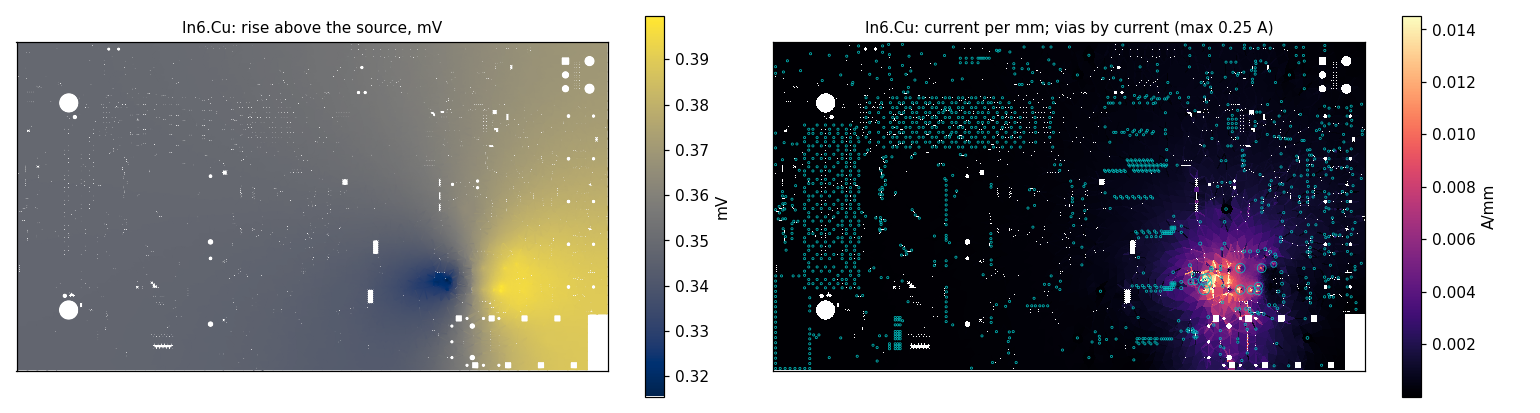
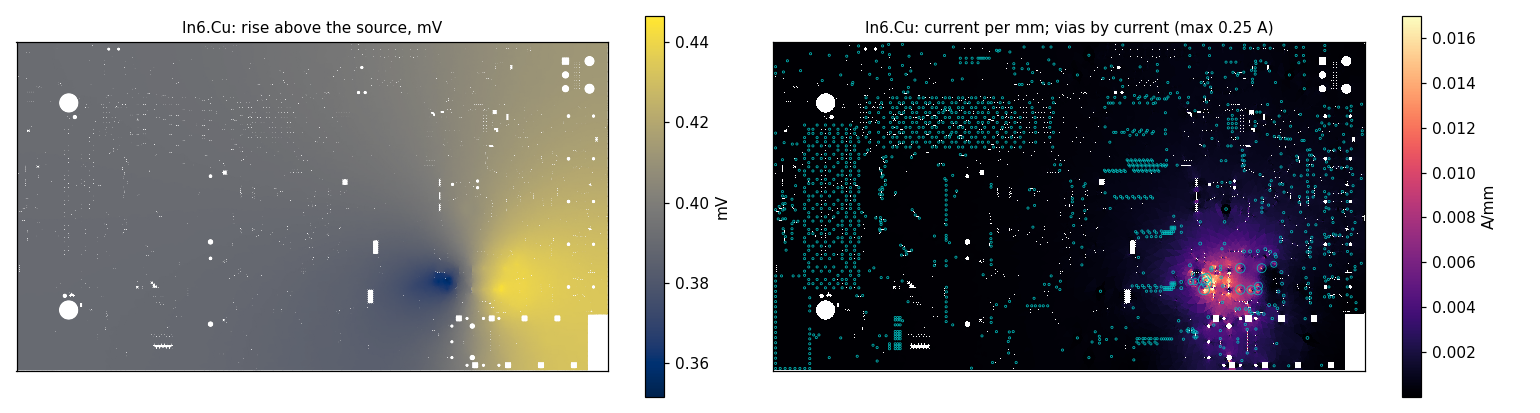
DC: equipotential pads and graded meshes at vias (found by validation against Elmer)
Terminal and via-end ties are 1e6 S per vertex instead of 1e6 S shared: current
enters a pad at its edge vertices, and the shared tie left pads ~20 uV/A off
equipotential (+1% on a strip, growing with refinement; now 0.003%).

DC meshes use a 25 degree minimum angle (mesh_polygons quality=, off by
default for the RF/MQS meshes): without it each via's octagon fanned out to
vertices ~2 mm away and the linear elements lost ~0.1 mOhm of spreading per
via junction, whatever dmax. Jetson +1V15 drop 5.78 -> 6.18 mV, its PDN peak
+5.7% (mount inductance uses the same conduction); wpthb -0.05%.

DC loss is the terminals' input power (V.G.V cancelled across stiff ties).
Tests: full-width pads give L/(sigma t W) at every mesh; a via spreads like a
pad of its radius. Example 02 images regenerated.

Claude-Session: https://claude.ai/code/session_012CT5QLy9q6DzuGH77kqSPf

Origin: lowprocess/pcbqs@4040b58c3e25

diff --git a/src/kicad2ems/pcbqs/pdn/dc.py b/src/kicad2ems/pcbqs/pdn/dc.py
@@ -29,7 +29,10 @@ from shapely.geometry import Point
 from shapely.ops import unary_union
 
 from .mesh import net_sheets, stiffness, gradient, stack_z, SIGMA_CU
-TIE_G = 1e6                     # S: a terminal or a via end to its vertices, in all (1 uOhm: equipotential)
+# S, from a terminal's or a via end's junction to EACH of its vertices. Per vertex, not shared: current enters a
+# pad through the few vertices on its edge, and a total of 1e6 S split over thousands of vertices left a pad
+# ~20 uV from equipotential per amp (+1% on a 40 mm strip, growing with mesh refinement; validation/dc_elmer.py).
+TIE_G = 1e6
 
 
 def _barrel_g(r_mm, dz_mm, plating_mm, sigma):
@@ -43,7 +46,7 @@ class Network:
     names of terminals meshed finer around (within `fine_r` mm, at dmax_fine), the current crowding into them."""
 
     def __init__(self, board, nets, terminals, dmax=1.0, sigma=SIGMA_CU, plating=0.025, fine=(), fine_r=2.0,
-                 dmax_fine=None, log=print):
+                 dmax_fine=None, log=print, quality=25):
         self.board, self.nets = board, {nets} if isinstance(nets, str) else set(nets)
         self.sigma, self.terms = sigma, dict(terminals)
         layers = list(stack_z(board))
@@ -58,8 +61,10 @@ class Network:
         fz = [poly.buffer(fine_r) for n in fine for _, poly in self.terms.get(n, [])]
         fzone = unary_union(fz) if fz else None
         pts = [(v['x'], v['y'], v['r']) for v in self.vias]
+        # quality: a minimum angle, so the cells grow out from each via's ring instead of reaching from it to far
+        # vertices in slivers (which underestimated every via junction's spreading: validation/dc_elmer.py)
         self.sheets = net_sheets(board, self.nets, pts, dmax=dmax, regions=regions, fine=fzone,
-                                 dmax_fine=dmax_fine or (dmax / 4 if fzone is not None else None))
+                                 dmax_fine=dmax_fine or (dmax / 4 if fzone is not None else None), quality=quality)
         if not self.sheets:
             raise ValueError(f"no copper of {', '.join(sorted(self.nets))}")
         off = 0
@@ -87,7 +92,7 @@ class Network:
                 sh = self.sheets[lay]
                 ring = sh.at(k)[1:] or sh.at(k)
                 for q in ring:
-                    link(j, sh.off + q, TIE_G / len(ring))
+                    link(j, sh.off + q, TIE_G)
                 js.append((j, lay, z))
                 j += 1
             segs = []
@@ -103,7 +108,7 @@ class Network:
                 self.notes.append(f"terminal {name}: on none of the copper of {', '.join(sorted(self.nets))}")
                 continue
             for q in ids:
-                link(j, q, TIE_G / len(ids))
+                link(j, q, TIE_G)
             self.tj[name] = j
             j += 1
         self.links = []                         # series parts: (name, terminal a, terminal b, R)
@@ -148,7 +153,9 @@ class Network:
         free = np.flatnonzero(live & ~np.isin(np.arange(self.n), fx))
         V[free] = spsolve(G[free][:, free].tocsc(), inj[free] - G[free][:, fx] @ V[fx])
         Vz = np.nan_to_num(V)
-        out = DCResult(self.nets, self.sheets, [], {}, float(Vz @ (G @ Vz)), self.n_mesh, notes)
+        # the loss as the power the terminals put in (Tellegen): V.G.V cancels across the stiff ties
+        loss = float(Vz[fx] @ (G[fx] @ Vz) + Vz[free] @ inj[free])
+        out = DCResult(self.nets, self.sheets, [], {}, loss, self.n_mesh, notes)
         for lay, sh in self.sheets.items():
             sh.V = V[sh.off:sh.off + len(sh.nodes)]
             gv = gradient(sh.nodes, sh.tris, np.nan_to_num(sh.V))      # V/mm

diff --git a/src/kicad2ems/pcbqs/pdn/mesh.py b/src/kicad2ems/pcbqs/pdn/mesh.py
@@ -129,7 +129,7 @@ def simplify_copper(geom, keep=(), points=(), drop_lone=True, area=1.0, sides=8)
 
 
 def mesh_sheet(geom, points=(), dmax=1.0, w_ref=None, coarsen=None, regions=(), fine=None, dmax_fine=None,
-               grow=0.5, edge_rings=1, edge_zone=None, via_sides=None):
+               grow=0.5, edge_rings=1, edge_zone=None, via_sides=None, quality=None):
     """Mesh one piece of copper (mm): (nodes mm, tris, [vertex ids of each point: centre + ring], [vertex ids of
     each region]) for the points (x, y, r) inside it (None where one is not) and the regions (shapely polygons, mm:
     pads), whose outlines are made mesh edges (a region on none of this copper: []). fine (shapely, mm) is meshed at
@@ -158,7 +158,8 @@ def mesh_sheet(geom, points=(), dmax=1.0, w_ref=None, coarsen=None, regions=(), 
         kw = dict(fine=scale(fine, 1e-3, 1e-3, origin=(0, 0)), dmax_fine=dmax_fine * 1e-3)
     zone = scale(edge_zone,1e-3,1e-3,origin=(0,0)) if edge_zone is not None else None
     nodes, tris, vid = mesh_polygons(g, dmax * 1e-3, (w_ref or dmax) * 1e-3, ncross=edge_rings,
-                                     vias=vias, coarsen=coarsen, grow=grow, edge_zone=zone, lines=lines, **kw)
+                                     vias=vias, coarsen=coarsen, grow=grow, edge_zone=zone, lines=lines, quality=quality,
+                                     **kw)
     nodes = nodes * 1e3
     rings = [None] * len(points)
     for i, v in zip(inside, vid):
@@ -178,7 +179,8 @@ def mesh_sheet(geom, points=(), dmax=1.0, w_ref=None, coarsen=None, regions=(), 
     return nodes, tris, rings, reg
 
 
-def net_sheets(board, net, points=(), dmax=1.0, layers=None, coarsen=None, regions=None, fine=None, dmax_fine=None):
+def net_sheets(board, net, points=(), dmax=1.0, layers=None, coarsen=None, regions=None, fine=None, dmax_fine=None,
+               quality=None):
     """{layer: Sheet} of the copper of `net` (a name or a set: a rail tree) on each copper layer (or `layers`), every
     point (x, y, r) of `points` that lies on a layer's copper made a vertex with its ring. regions: {layer:
     [polygon]} (pads) whose outlines become mesh edges; Sheet.region(k) their vertex ids. fine, dmax_fine: a region
@@ -191,7 +193,7 @@ def net_sheets(board, net, points=(), dmax=1.0, layers=None, coarsen=None, regio
             continue
         rg = (regions or {}).get(lay, [])
         nodes, tris, rings, reg = mesh_sheet(g, points, dmax, coarsen=coarsen, regions=rg, fine=fine,
-                                             dmax_fine=dmax_fine)
+                                             dmax_fine=dmax_fine, quality=quality)
         key = [i for i, r in enumerate(rings) if r is not None]
         out[lay] = Sheet(lay, zt[lay][0], zt[lay][1], g, nodes, tris, [points[i] for i in key],
                          [rings[i] for i in key], key, reg)

diff --git a/tests/pcbqs/test_pdn.py b/tests/pcbqs/test_pdn.py
@@ -95,3 +95,32 @@ def test_decap_pulls_the_impedance_down_and_resonates_with_its_esl():
     k = np.argmin(z[f < 1e8])
     assert f[k] == pytest.approx(fsr, rel=0.15)                         # its series resonance, near the ESR
     assert z[k] == pytest.approx(5e-3, rel=0.6)
+
+
+def test_full_width_pads_are_equipotential():
+    """Pads across a strip's whole width: R is exactly L / (sigma t W) between their inner edges, at every mesh
+    density. (The terminal ties were once a total of 1e6 S split over the pad's vertices: current entering through
+    the edge vertices left the pads ~1% off equipotential, worse with refinement; validation/dc_elmer.py.)"""
+    b = board([('F.Cu', 0.0, 0.035)], {'F.Cu': [('P', box(0, 0, 50, 5))]})
+    R0 = 40e-3 / (5.8e7 * 35e-6 * 5e-3)
+    for dmax in (1.0, 0.5, 0.25):
+        nw = dc.Network(b, 'P', {'a': [('F.Cu', box(0, 0, 5, 5))], 'b': [('F.Cu', box(45, 0, 50, 5))]}, dmax=dmax,
+                        fine=['a', 'b'], log=lambda *a: None)
+        r = nw.solve({'a': 0.0}, {'b': -1.0})
+        assert -r.terminals['b'] == pytest.approx(R0, rel=2e-4)
+
+
+def test_a_via_spreads_like_a_pad_of_its_radius():
+    """The spreading from a via's ring into a plate equals that from a round pad of the via's radius (the mesh
+    graded out from the ring: without a minimum angle, slivers from the ring to far vertices lost ~25% of it)."""
+    from shapely.geometry import Point
+    plate = {'F.Cu': [('P', box(0, 0, 10, 10))], 'B.Cu': [('P', box(0, 0, 10, 10))]}
+    b = board([('B.Cu', 0.0, 0.035), ('F.Cu', 1.6, 0.035)], plate, vias=[(5, 5, 0.15, 0.0, 1.6, 'P')])
+    nw = dc.Network(b, 'P', {'s': [('F.Cu', box(0, 0, 1, 10))], 'l': [('B.Cu', box(9, 0, 10, 10))]}, dmax=0.5,
+                    plating=0.025, fine=['s', 'l'], log=lambda *a: None)
+    via = -nw.solve({'s': 0.0}, {'l': -1.0}).terminals['l'] - 1 / dc._barrel_g(0.15, 1.6, 0.025, 5.8e7)
+    one = board([('F.Cu', 0.0, 0.035)], {'F.Cu': [('P', box(0, 0, 10, 10))]})
+    pad = dc.Network(one, 'P', {'s': [('F.Cu', box(0, 0, 1, 10))], 'p': [('F.Cu', Point(5, 5).buffer(0.15, quad_segs=16))]},
+                     dmax=0.5, fine=['s', 'p'], log=lambda *a: None)
+    spread = -pad.solve({'s': 0.0}, {'p': -1.0}).terminals['p']
+    assert via / 2 == pytest.approx(spread, rel=0.06)

diff --git a/src/kicad2ems/pcbqs/_numerics/geo.py b/src/kicad2ems/pcbqs/_numerics/geo.py
@@ -249,7 +249,7 @@ def gap_zones(geom, gmax, step, tol=1e-9):
 # ---- Mesher -----------------------------------------------------------------
 def mesh_polygons(geom, dmax, w_ref, ncross=6, grade=1.0, lines=(), vias=(), amax=None,
                   max_offset_frac=0.45, tol=1e-9, fine=None, dmax_fine=None, edge_zone=None, split_chains=False,
-                  coarsen=None, grow=0.5, structured=False, struct_w_max=20e-3, gap_rings=None):
+                  coarsen=None, grow=0.5, structured=False, struct_w_max=20e-3, gap_rings=None, quality=None):
     """
     geom   : shapely (Multi)Polygon of one metal layer
     dmax   : max edge length along conductors / in open regions
@@ -301,6 +301,10 @@ def mesh_polygons(geom, dmax, w_ref, ncross=6, grade=1.0, lines=(), vias=(), ama
         fine_parts = [q for q in getattr(fg, 'geoms', [fg]) if q.geom_type == 'Polygon' and q.area > (2 * dmax_fine) ** 2]
         linework += [r for q in fine_parts for r in _rings(q)]          # region boundaries as constraints
     fine_u = unary_union(fine_parts).buffer(tol) if fine_parts else None
+    # quality (degrees): Triangle's minimum angle. Off by default (the edge-ring strips of the RF meshes would split
+    # into fans); without it a small feature (a via's octagon) fans out to far vertices in long slivers, and the
+    # linear elements then underestimate the log spreading around it (DC: ~0.1 mOhm per via junction)
+    q = f'q{quality:g}' if quality else ''
     hfield = None
     if coarsen and coarsen > 1:
         F = _features(geom, lines, vias, min(dmax, dmax_fine or dmax))
@@ -407,9 +411,9 @@ def mesh_polygons(geom, dmax, w_ref, ncross=6, grade=1.0, lines=(), vias=(), ama
                 if q.geom_type == 'Polygon' and not q.is_empty]
         A['regions'] = np.array([[(pt.x - org[0]) / dmax, (pt.y - org[1]) / dmax, i + 1, a]
                                  for i, (pt, a) in enumerate(reg)])
-        T = tr.triangulate(A, "pQa")
+        T = tr.triangulate(A, f"p{q}Qa")
     else:
-        T = tr.triangulate(A, f"pQa{amax:.8f}")
+        T = tr.triangulate(A, f"p{q}Qa{amax:.8f}")
     nodes, tris = T['vertices'] * dmax + org, T['triangles']
     cent = nodes[tris].mean(1)
     tris = tris[shapely.contains_xy(geom.buffer(tol), cent[:, 0], cent[:, 1])]
